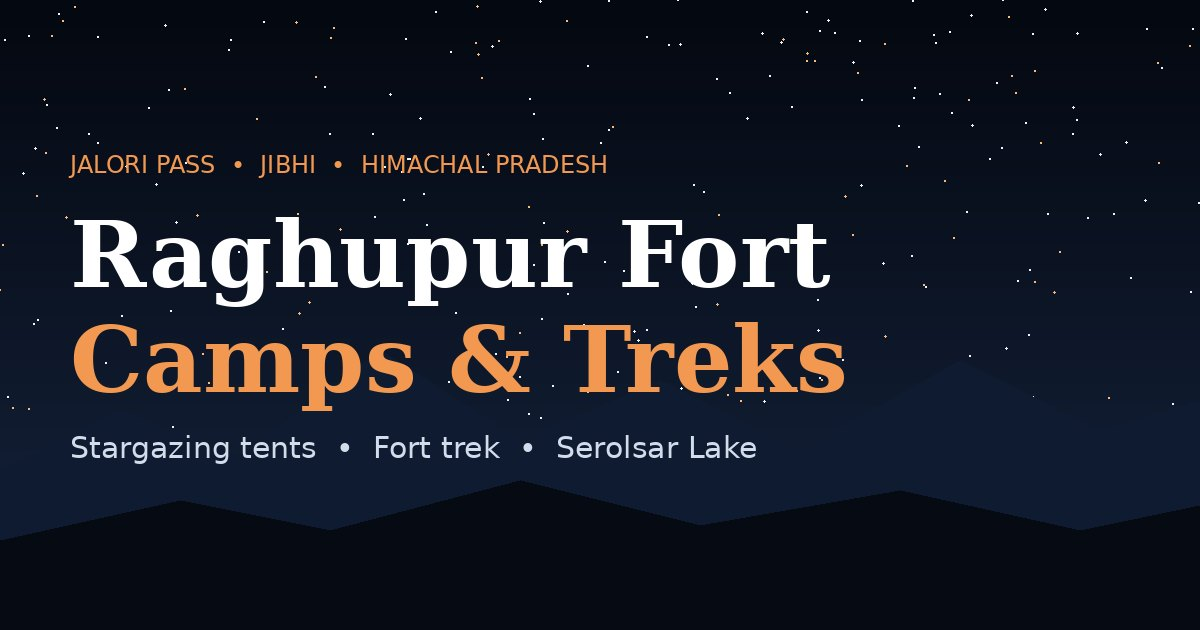
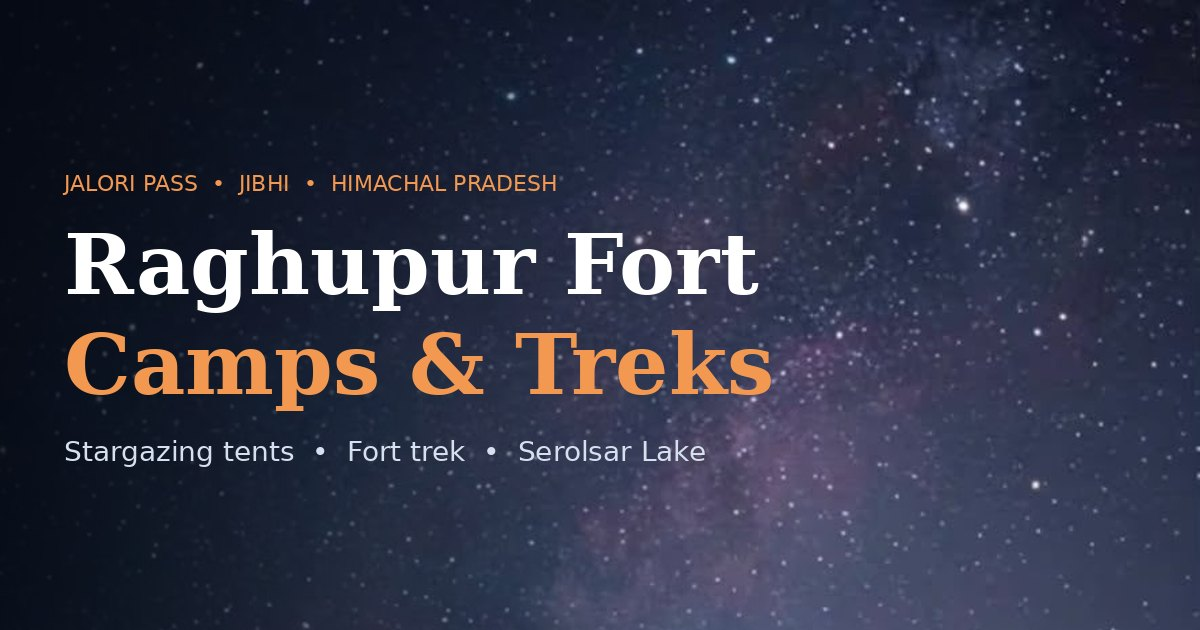
Use real camp photos, add image SEO, improve WhatsApp enquiry message
- Add 3 real photos (WebP + JPG, 480w + full size, metadata stripped)
  and replace stock placeholders; home gallery, camping stories
- New Open Graph image built from the real night-sky photo
- Image sitemap entries, image fields in JSON-LD, priceRange, hreflang,
  geo meta, descriptive alt text, contextual internal links
- WhatsApp booking message: readable date and source page; verified
  number and text on all 32 static links and all 9 booking options

Claude-Session: https://claude.ai/code/session_01BJV9k249R4Rxt7fkgJA2HJ

diff --git a/raghupur-fort-trek.html b/raghupur-fort-trek.html
@@ -7,6 +7,10 @@
 <meta name="description" content="Trek about 3 km from Jalori Pass to the ruins of Raghupur Fort. Moderate climb, around 2 hours up, 360 degree ridge views. Guides and overnight camp available.">
 <meta name="robots" content="index,follow,max-image-preview:large">
 <link rel="canonical" href="https://humsafarcommunity.github.io/raghupurcamps/raghupur-fort-trek.html">
+<link rel="alternate" hreflang="en-IN" href="https://humsafarcommunity.github.io/raghupurcamps/raghupur-fort-trek.html">
+<link rel="alternate" hreflang="x-default" href="https://humsafarcommunity.github.io/raghupurcamps/raghupur-fort-trek.html">
+<meta name="geo.region" content="IN-HP">
+<meta name="geo.placename" content="Jalori Pass, Kullu, Himachal Pradesh">
 <meta name="theme-color" content="#050a12">
 <meta property="og:type" content="website">
 <meta property="og:site_name" content="Raghupur Fort Camps">
@@ -17,7 +21,7 @@
 <meta property="og:image" content="https://humsafarcommunity.github.io/raghupurcamps/og-image.jpg">
 <meta property="og:image:width" content="1200">
 <meta property="og:image:height" content="630">
-<meta property="og:image:alt" content="Raghupur Fort Camps: starry Himalayan night above Jalori Pass">
+<meta property="og:image:alt" content="Raghupur Fort Camps: Milky Way over the camp ridge near Jalori Pass">
 <meta name="twitter:card" content="summary_large_image">
 <meta name="twitter:title" content="Raghupur Fort Trek from Jalori Pass | Route, Time &amp; Guide">
 <meta name="twitter:description" content="Trek about 3 km from Jalori Pass to the ruins of Raghupur Fort. Moderate climb, around 2 hours up, 360 degree ridge views. Guides and overnight camp available.">
@@ -29,7 +33,7 @@
 <link href="https://fonts.googleapis.com/css2?family=Playfair+Display:ital,wght@0,500;0,600;0,700;1,400&amp;family=Plus+Jakarta+Sans:wght@400;500;600;700&amp;display=swap" rel="stylesheet">
 <link rel="stylesheet" href="styles.css">
 <script type="application/ld+json">{"@context": "https://schema.org", "@type": "BreadcrumbList", "itemListElement": [{"@type": "ListItem", "position": 1, "name": "Home", "item": "https://humsafarcommunity.github.io/raghupurcamps/index.html"}, {"@type": "ListItem", "position": 2, "name": "Fort Trek", "item": "https://humsafarcommunity.github.io/raghupurcamps/raghupur-fort-trek.html"}]}</script>
-<script type="application/ld+json">{"@context": "https://schema.org", "@type": "TouristAttraction", "name": "Raghupur Fort", "description": "Ruins of a hill fort believed to have been built by the Mandi rulers, reached by a moderate trek of about 3 km from Jalori Pass in Himachal Pradesh.", "address": {"@type": "PostalAddress", "addressLocality": "Jalori Pass", "addressRegion": "Himachal Pradesh", "addressCountry": "IN"}}</script>
+<script type="application/ld+json">{"@context": "https://schema.org", "@type": "TouristAttraction", "name": "Raghupur Fort", "image": "https://humsafarcommunity.github.io/raghupurcamps/images/raghupur-fort-ridge-sunset-view.jpg", "description": "Ruins of a hill fort believed to have been built by the Mandi rulers, reached by a moderate trek of about 3 km from Jalori Pass in Himachal Pradesh.", "address": {"@type": "PostalAddress", "addressLocality": "Jalori Pass", "addressRegion": "Himachal Pradesh", "addressCountry": "IN"}}</script>
 </head>
 <body data-page="raghupur-fort-trek.html">
 <a class="skip-link" href="#main">Skip to content</a>
@@ -74,10 +78,10 @@
   <div class="content-container">
     <div class="editorial-header">
       <h2 class="editorial-title">Trek to the old fort above Jalori Pass</h2>
-      <p class="editorial-lead">Raghupur Fort (also called Raghupur Garh) is believed to have been built by the Mandi rulers as a lookout and defence post. Only ruins remain today, but the setting is the draw: stone walls on an open ridge, with views over the surrounding valleys and, on clear days, snow-capped peaks.</p>
+      <p class="editorial-lead">Raghupur Fort (also called Raghupur Garh) is believed to have been built by the Mandi rulers as a lookout and defence post. Only ruins remain today, but the setting is the draw: stone walls on an open ridge, with views over the surrounding valleys and, on clear days, snow-capped peaks. You can also <a href="raghupur-fort-camping.html">camp overnight on the ridge</a> or combine the walk with the <a href="serolsar-lake-trek.html">Serolsar Lake trek</a>.</p>
     </div>
     <div class="stats-row"><div class="stat-card"><span class="stat-num">~3 km</span><span class="stat-label">Trail distance</span><span class="stat-note">From Jalori Pass</span></div><div class="stat-card"><span class="stat-num">~2 hrs</span><span class="stat-label">Climb up</span><span class="stat-note">About 1 hr to come down</span></div><div class="stat-card"><span class="stat-num">Moderate</span><span class="stat-label">Difficulty</span><span class="stat-note">Steady, steep in places</span></div><div class="stat-card"><span class="stat-num">360&deg;</span><span class="stat-label">Ridge views</span><span class="stat-note">Best on a clear morning</span></div></div>
-    <div class="story-grid"><div class="story-content"><span class="section-tag">Heritage and trail</span><h2 class="story-heading">Walking the ridge of the old fort</h2><p>The trail starts at Jalori Pass and quickly leaves the road crowd behind, climbing through oak and rhododendron woods before opening onto grassy alpine slopes.</p><p>Near the top the dry-stone ruins appear along the ridge. Walk the remains of the walls, look out over the valleys, and imagine the sentries who once watched this route.</p><blockquote class="highlight-quote"><p>On a clear afternoon you can pick out line after line of snow peaks, with birds of prey riding the air far below.</p></blockquote></div><div class="story-media"><figure class="media-frame"><img src="https://images.unsplash.com/photo-1464822759023-fed622ff2c3b?auto=format&fit=crop&w=1000&q=75" alt="Himalayan mountain ridge under open sky" width="1000" height="1200" class="media-img" loading="lazy" decoding="async" referrerpolicy="no-referrer" onerror="this.closest('.media-frame').classList.add('img-failed')"><figcaption class="media-caption"><span>Illustrative photo of a Himalayan ridge</span><span class="badge">Ridge trail</span></figcaption></figure></div></div>
+    <div class="story-grid"><div class="story-content"><span class="section-tag">Heritage and trail</span><h2 class="story-heading">Walking the ridge of the old fort</h2><p>The trail starts at Jalori Pass and quickly leaves the road crowd behind, climbing through oak and rhododendron woods before opening onto grassy alpine slopes.</p><p>Near the top the dry-stone ruins appear along the ridge. Walk the remains of the walls, look out over the valleys, and imagine the sentries who once watched this route.</p><blockquote class="highlight-quote"><p>On a clear afternoon you can pick out line after line of snow peaks, with birds of prey riding the air far below.</p></blockquote></div><div class="story-media"><figure class="media-frame"><picture><source type="image/webp" srcset="images/raghupur-fort-ridge-sunset-view-480.webp 480w, images/raghupur-fort-ridge-sunset-view.webp 768w" sizes="(max-width: 768px) 100vw, 520px"><img src="images/raghupur-fort-ridge-sunset-view.jpg" srcset="images/raghupur-fort-ridge-sunset-view-480.jpg 480w, images/raghupur-fort-ridge-sunset-view.jpg 768w" sizes="(max-width: 768px) 100vw, 520px" alt="Traveller sitting on the grassy ridge at Raghupur Fort watching the sun set over layered Himalayan ranges" width="768" height="1024" class="media-img" loading="lazy" decoding="async" onerror="this.closest('.media-frame').classList.add('img-failed')"></picture><figcaption class="media-caption"><span>Golden hour on the ridge near Raghupur Fort</span><span class="badge">Ridge views</span></figcaption></figure></div></div>
     <div class="trail-experience">
       <div class="center-header"><span class="section-tag">The trail</span><h2 class="section-heading">From Jalori Pass to the fort</h2><p class="section-description">Start early so you reach the top before afternoon cloud rolls in.</p></div>
       <ol class="timeline-trail"><li class="trail-step"><div class="step-marker" aria-hidden="true">01</div><div class="step-card"><h3>Jalori Pass start</h3><p>Begin near the Kali Mata temple at the pass, with the trail climbing steadily into the trees.</p></div></li><li class="trail-step"><div class="step-marker" aria-hidden="true">02</div><div class="step-card"><h3>Oak and rhododendron forest</h3><p>A shaded, cool section with soft ground. Rhododendrons colour the trail in spring.</p></div></li><li class="trail-step"><div class="step-marker" aria-hidden="true">03</div><div class="step-card"><h3>Open meadow slopes</h3><p>The trees thin out and big alpine meadows appear, with wide views opening up behind you.</p></div></li><li class="trail-step"><div class="step-marker" aria-hidden="true">04</div><div class="step-card"><h3>The fort ruins</h3><p>Reach the old stone walls on the ridge, the highest point of the walk and the best view.</p></div></li></ol>

diff --git a/index.html b/index.html
@@ -7,6 +7,10 @@
 <meta name="description" content="Camp at Raghupur Fort near Jalori Pass, Himachal. Stargazing tents, Raghupur Fort trek, Serolsar Lake trek and Jibhi-Tirthan trips. Call +91 70187 36861.">
 <meta name="robots" content="index,follow,max-image-preview:large">
 <link rel="canonical" href="https://humsafarcommunity.github.io/raghupurcamps/index.html">
+<link rel="alternate" hreflang="en-IN" href="https://humsafarcommunity.github.io/raghupurcamps/index.html">
+<link rel="alternate" hreflang="x-default" href="https://humsafarcommunity.github.io/raghupurcamps/index.html">
+<meta name="geo.region" content="IN-HP">
+<meta name="geo.placename" content="Jalori Pass, Kullu, Himachal Pradesh">
 <meta name="theme-color" content="#050a12">
 <meta property="og:type" content="website">
 <meta property="og:site_name" content="Raghupur Fort Camps">
@@ -17,7 +21,7 @@
 <meta property="og:image" content="https://humsafarcommunity.github.io/raghupurcamps/og-image.jpg">
 <meta property="og:image:width" content="1200">
 <meta property="og:image:height" content="630">
-<meta property="og:image:alt" content="Raghupur Fort Camps: starry Himalayan night above Jalori Pass">
+<meta property="og:image:alt" content="Raghupur Fort Camps: Milky Way over the camp ridge near Jalori Pass">
 <meta name="twitter:card" content="summary_large_image">
 <meta name="twitter:title" content="Raghupur Fort Camping &amp; Treks | Jalori Pass, Jibhi, Serolsar">
 <meta name="twitter:description" content="Camp at Raghupur Fort near Jalori Pass, Himachal. Stargazing tents, Raghupur Fort trek, Serolsar Lake trek and Jibhi-Tirthan trips. Call +91 70187 36861.">
@@ -28,7 +32,7 @@
 <link rel="preconnect" href="https://fonts.gstatic.com" crossorigin>
 <link href="https://fonts.googleapis.com/css2?family=Playfair+Display:ital,wght@0,500;0,600;0,700;1,400&amp;family=Plus+Jakarta+Sans:wght@400;500;600;700&amp;display=swap" rel="stylesheet">
 <link rel="stylesheet" href="styles.css">
-<script type="application/ld+json">{"@context": "https://schema.org", "@type": "Campground", "name": "Raghupur Fort Camps", "url": "https://humsafarcommunity.github.io/raghupurcamps/index.html", "image": "https://humsafarcommunity.github.io/raghupurcamps/og-image.jpg", "telephone": "+917018736861", "description": "Tented camping and guided treks on the Raghupur Fort ridge near Jalori Pass, Kullu district, Himachal Pradesh.", "address": {"@type": "PostalAddress", "addressLocality": "Jalori Pass", "addressRegion": "Himachal Pradesh", "addressCountry": "IN"}, "areaServed": ["Jalori Pass", "Jibhi", "Tirthan Valley", "Serolsar Lake"]}</script>
+<script type="application/ld+json">{"@context": "https://schema.org", "@type": "Campground", "name": "Raghupur Fort Camps", "url": "https://humsafarcommunity.github.io/raghupurcamps/index.html", "image": ["https://humsafarcommunity.github.io/raghupurcamps/images/raghupur-fort-camp-tents-himalayan-view.jpg", "https://humsafarcommunity.github.io/raghupurcamps/images/raghupur-fort-ridge-sunset-view.jpg", "https://humsafarcommunity.github.io/raghupurcamps/images/raghupur-fort-camp-milky-way-night-sky.jpg", "https://humsafarcommunity.github.io/raghupurcamps/og-image.jpg"], "telephone": "+917018736861", "priceRange": "INR 1200 - 5500", "description": "Tented camping and guided treks on the Raghupur Fort ridge near Jalori Pass, Kullu district, Himachal Pradesh.", "address": {"@type": "PostalAddress", "addressLocality": "Jalori Pass", "addressRegion": "Himachal Pradesh", "addressCountry": "IN"}, "areaServed": ["Jalori Pass", "Jibhi", "Tirthan Valley", "Serolsar Lake"]}</script>
 <script type="application/ld+json">{"@context": "https://schema.org", "@type": "WebSite", "name": "Raghupur Fort Camps", "url": "https://humsafarcommunity.github.io/raghupurcamps/index.html"}</script>
 </head>
 <body data-page="home">
@@ -77,6 +81,8 @@
       <p class="editorial-lead">Raghupur Fort stands on an open ridge above Jalori Pass in Kullu district, Himachal Pradesh. We run tented camps on the ridge near the fort, with warm bedding, hot Himachali meals and a bonfire as the night sky comes out. It pairs easily with the Serolsar Lake trek, and Jibhi and Tirthan Valley are a short drive down the mountain.</p>
     </div>
     <div class="stats-row"><div class="stat-card"><span class="stat-num">~3,500 m</span><span class="stat-label">Camp altitude</span><span class="stat-note">Around 11,500 ft</span></div><div class="stat-card"><span class="stat-num">3 km</span><span class="stat-label">Trek to the fort</span><span class="stat-note">From Jalori Pass, about 2 hrs up</span></div><div class="stat-card"><span class="stat-num">12 km</span><span class="stat-label">Jalori to Jibhi</span><span class="stat-note">About a 40 minute drive</span></div><div class="stat-card"><span class="stat-num">Apr&nbsp;&ndash;&nbsp;Nov</span><span class="stat-label">Main season</span><span class="stat-note">Snow closes the road in winter</span></div></div>
+    <div class="center-header"><span class="section-tag">Life at the camp</span><h2 class="section-heading">Real photos from the ridge</h2></div>
+    <div class="gallery-grid"><figure class="media-frame gallery-item"><picture><source type="image/webp" srcset="images/raghupur-fort-camp-tents-himalayan-view-480.webp 480w, images/raghupur-fort-camp-tents-himalayan-view.webp 768w" sizes="(max-width: 768px) 100vw, 360px"><img src="images/raghupur-fort-camp-tents-himalayan-view.jpg" srcset="images/raghupur-fort-camp-tents-himalayan-view-480.jpg 480w, images/raghupur-fort-camp-tents-himalayan-view.jpg 768w" sizes="(max-width: 768px) 100vw, 360px" alt="Row of dome tents on the green ridge at Raghupur Fort camp with Himalayan peaks and clouds behind" width="768" height="1024" class="media-img" loading="lazy" decoding="async" onerror="this.closest('.media-frame').classList.add('img-failed')"></picture><figcaption class="media-caption"><span>Tents on the ridge</span></figcaption></figure><figure class="media-frame gallery-item"><picture><source type="image/webp" srcset="images/raghupur-fort-ridge-sunset-view-480.webp 480w, images/raghupur-fort-ridge-sunset-view.webp 768w" sizes="(max-width: 768px) 100vw, 360px"><img src="images/raghupur-fort-ridge-sunset-view.jpg" srcset="images/raghupur-fort-ridge-sunset-view-480.jpg 480w, images/raghupur-fort-ridge-sunset-view.jpg 768w" sizes="(max-width: 768px) 100vw, 360px" alt="Traveller sitting on the grassy ridge at Raghupur Fort watching the sun set over layered Himalayan ranges" width="768" height="1024" class="media-img" loading="lazy" decoding="async" onerror="this.closest('.media-frame').classList.add('img-failed')"></picture><figcaption class="media-caption"><span>Golden hour at Raghupur</span></figcaption></figure><figure class="media-frame gallery-item"><picture><source type="image/webp" srcset="images/raghupur-fort-camp-milky-way-night-sky-480.webp 480w, images/raghupur-fort-camp-milky-way-night-sky.webp 886w" sizes="(max-width: 768px) 100vw, 360px"><img src="images/raghupur-fort-camp-milky-way-night-sky.jpg" srcset="images/raghupur-fort-camp-milky-way-night-sky-480.jpg 480w, images/raghupur-fort-camp-milky-way-night-sky.jpg 886w" sizes="(max-width: 768px) 100vw, 360px" alt="Milky Way and thousands of stars over a pine-covered ridge at the Raghupur Fort camp" width="886" height="1280" class="media-img" loading="lazy" decoding="async" onerror="this.closest('.media-frame').classList.add('img-failed')"></picture><figcaption class="media-caption"><span>Milky Way above the camp</span></figcaption></figure></div>
     <div class="center-header"><span class="section-tag">Choose your experience</span><h2 class="section-heading">Four ways to spend your days in Seraj</h2></div>
     <div class="exp-grid"><a class="exp-card" href="raghupur-fort-camping.html"><span class="place-tag">Stay</span><h3>Camping at Raghupur Fort</h3><p>Alpine tents, campfire evenings and a sky full of stars on the ridge.</p><span class="exp-more">Explore <span aria-hidden="true">&rarr;</span></span></a><a class="exp-card" href="raghupur-fort-trek.html"><span class="place-tag">Trek</span><h3>Raghupur Fort trek</h3><p>About 3 km from Jalori Pass through oak and rhododendron forest to the old fort ruins.</p><span class="exp-more">Explore <span aria-hidden="true">&rarr;</span></span></a><a class="exp-card" href="serolsar-lake-trek.html"><span class="place-tag">Trek</span><h3>Serolsar Lake trek</h3><p>An easy 5 km forest walk to a sacred lake, as a day trek or paired with a camp night.</p><span class="exp-more">Explore <span aria-hidden="true">&rarr;</span></span></a><a class="exp-card" href="jibhi-tirthan-valley.html"><span class="place-tag">Explore</span><h3>Jibhi &amp; Tirthan Valley</h3><p>Wooden villages, waterfalls, Chehni Kothi and the Great Himalayan National Park.</p><span class="exp-more">Explore <span aria-hidden="true">&rarr;</span></span></a></div>
     <div class="center-header"><span class="section-tag">Why stay with us</span><h2 class="section-heading">A camp built around the mountain</h2></div>

diff --git a/raghupur-fort-camping.html b/raghupur-fort-camping.html
@@ -7,6 +7,10 @@
 <meta name="description" content="Sleep in alpine tents on the Raghupur Fort ridge near Jalori Pass. Campfire, Himachali meals, sunrise views and stargazing. Standard, luxury and private tents.">
 <meta name="robots" content="index,follow,max-image-preview:large">
 <link rel="canonical" href="https://humsafarcommunity.github.io/raghupurcamps/raghupur-fort-camping.html">
+<link rel="alternate" hreflang="en-IN" href="https://humsafarcommunity.github.io/raghupurcamps/raghupur-fort-camping.html">
+<link rel="alternate" hreflang="x-default" href="https://humsafarcommunity.github.io/raghupurcamps/raghupur-fort-camping.html">
+<meta name="geo.region" content="IN-HP">
+<meta name="geo.placename" content="Jalori Pass, Kullu, Himachal Pradesh">
 <meta name="theme-color" content="#050a12">
 <meta property="og:type" content="website">
 <meta property="og:site_name" content="Raghupur Fort Camps">
@@ -17,7 +21,7 @@
 <meta property="og:image" content="https://humsafarcommunity.github.io/raghupurcamps/og-image.jpg">
 <meta property="og:image:width" content="1200">
 <meta property="og:image:height" content="630">
-<meta property="og:image:alt" content="Raghupur Fort Camps: starry Himalayan night above Jalori Pass">
+<meta property="og:image:alt" content="Raghupur Fort Camps: Milky Way over the camp ridge near Jalori Pass">
 <meta name="twitter:card" content="summary_large_image">
 <meta name="twitter:title" content="Raghupur Fort Camping near Jalori Pass | Stargazing Tents">
 <meta name="twitter:description" content="Sleep in alpine tents on the Raghupur Fort ridge near Jalori Pass. Campfire, Himachali meals, sunrise views and stargazing. Standard, luxury and private tents.">
@@ -28,7 +32,7 @@
 <link rel="preconnect" href="https://fonts.gstatic.com" crossorigin>
 <link href="https://fonts.googleapis.com/css2?family=Playfair+Display:ital,wght@0,500;0,600;0,700;1,400&amp;family=Plus+Jakarta+Sans:wght@400;500;600;700&amp;display=swap" rel="stylesheet">
 <link rel="stylesheet" href="styles.css">
-<script type="application/ld+json">{"@context": "https://schema.org", "@type": "Campground", "name": "Raghupur Fort Camps", "url": "https://humsafarcommunity.github.io/raghupurcamps/index.html", "image": "https://humsafarcommunity.github.io/raghupurcamps/og-image.jpg", "telephone": "+917018736861", "description": "Tented camping and guided treks on the Raghupur Fort ridge near Jalori Pass, Kullu district, Himachal Pradesh.", "address": {"@type": "PostalAddress", "addressLocality": "Jalori Pass", "addressRegion": "Himachal Pradesh", "addressCountry": "IN"}, "areaServed": ["Jalori Pass", "Jibhi", "Tirthan Valley", "Serolsar Lake"]}</script>
+<script type="application/ld+json">{"@context": "https://schema.org", "@type": "Campground", "name": "Raghupur Fort Camps", "url": "https://humsafarcommunity.github.io/raghupurcamps/index.html", "image": ["https://humsafarcommunity.github.io/raghupurcamps/images/raghupur-fort-camp-tents-himalayan-view.jpg", "https://humsafarcommunity.github.io/raghupurcamps/images/raghupur-fort-ridge-sunset-view.jpg", "https://humsafarcommunity.github.io/raghupurcamps/images/raghupur-fort-camp-milky-way-night-sky.jpg", "https://humsafarcommunity.github.io/raghupurcamps/og-image.jpg"], "telephone": "+917018736861", "priceRange": "INR 1200 - 5500", "description": "Tented camping and guided treks on the Raghupur Fort ridge near Jalori Pass, Kullu district, Himachal Pradesh.", "address": {"@type": "PostalAddress", "addressLocality": "Jalori Pass", "addressRegion": "Himachal Pradesh", "addressCountry": "IN"}, "areaServed": ["Jalori Pass", "Jibhi", "Tirthan Valley", "Serolsar Lake"]}</script>
 <script type="application/ld+json">{"@context": "https://schema.org", "@type": "BreadcrumbList", "itemListElement": [{"@type": "ListItem", "position": 1, "name": "Home", "item": "https://humsafarcommunity.github.io/raghupurcamps/index.html"}, {"@type": "ListItem", "position": 2, "name": "Camping", "item": "https://humsafarcommunity.github.io/raghupurcamps/raghupur-fort-camping.html"}]}</script>
 </head>
 <body data-page="raghupur-fort-camping.html">
@@ -74,8 +78,10 @@
   <div class="content-container">
     <div class="editorial-header">
       <h2 class="editorial-title">High-altitude camping at Raghupur Fort</h2>
-      <p class="editorial-lead">Our camp sits on an open ridge at roughly 3,500 m, far from town lights. As dusk settles the snow ranges catch the last of the sun, and on a clear night the Milky Way stretches overhead. Stay one night after the fort trek or add it to a Serolsar Lake day.</p>
+      <p class="editorial-lead">Our camp sits on an open ridge at roughly 3,500 m, far from town lights. As dusk settles the snow ranges catch the last of the sun, and on a clear night the Milky Way stretches overhead. Stay one night after the <a href="raghupur-fort-trek.html">Raghupur Fort trek</a> or add it to a <a href="serolsar-lake-trek.html">Serolsar Lake day trek</a>.</p>
     </div>
+    <div class="story-grid"><div class="story-content"><span class="section-tag">The camp</span><h2 class="story-heading">Tents on the ridge, peaks all around</h2><p>Our dome tents sit in a row along the grassy slope below the pines, with the Himalayan ranges filling the horizon. Days are bright and open, and mornings often start clear before cloud rolls in.</p><p>Everything is close at hand: your tent, the kitchen, the bonfire circle and the viewpoints along the ridge.</p><blockquote class="highlight-quote"><p>Pick your pitch, unzip the door and the view is already there.</p></blockquote></div><div class="story-media"><figure class="media-frame"><picture><source type="image/webp" srcset="images/raghupur-fort-camp-tents-himalayan-view-480.webp 480w, images/raghupur-fort-camp-tents-himalayan-view.webp 768w" sizes="(max-width: 768px) 100vw, 520px"><img src="images/raghupur-fort-camp-tents-himalayan-view.jpg" srcset="images/raghupur-fort-camp-tents-himalayan-view-480.jpg 480w, images/raghupur-fort-camp-tents-himalayan-view.jpg 768w" sizes="(max-width: 768px) 100vw, 520px" alt="Row of dome tents on the green ridge at Raghupur Fort camp with Himalayan peaks and clouds behind" width="768" height="1024" class="media-img" loading="lazy" decoding="async" onerror="this.closest('.media-frame').classList.add('img-failed')"></picture><figcaption class="media-caption"><span>Dome tents on the Raghupur Fort ridge</span><span class="badge">The camp</span></figcaption></figure></div></div>
+    <div class="story-grid"><div class="story-content"><span class="section-tag">After dark</span><h2 class="story-heading">A sky full of stars</h2><p>Far from town lights, the night sky over the ridge fills with stars, and on clear, moonless nights the Milky Way stretches across it.</p><p>Bring a warm layer, switch off your torch and give your eyes ten minutes to adjust. Our private stargazing pitch is set a little away from the main camp for the darkest sky.</p></div><div class="story-media"><figure class="media-frame"><picture><source type="image/webp" srcset="images/raghupur-fort-camp-milky-way-night-sky-480.webp 480w, images/raghupur-fort-camp-milky-way-night-sky.webp 886w" sizes="(max-width: 768px) 100vw, 520px"><img src="images/raghupur-fort-camp-milky-way-night-sky.jpg" srcset="images/raghupur-fort-camp-milky-way-night-sky-480.jpg 480w, images/raghupur-fort-camp-milky-way-night-sky.jpg 886w" sizes="(max-width: 768px) 100vw, 520px" alt="Milky Way and thousands of stars over a pine-covered ridge at the Raghupur Fort camp" width="886" height="1280" class="media-img" loading="lazy" decoding="async" onerror="this.closest('.media-frame').classList.add('img-failed')"></picture><figcaption class="media-caption"><span>The Milky Way above the camp ridge</span><span class="badge">Stargazing</span></figcaption></figure></div></div>
     <div class="camps-features-grid">
       <div class="feature-card"><div class="feature-icon" aria-hidden="true">⛺</div><h3>Weatherproof tents</h3><p>Double-layer dome tents with insulated foam mats, fleece blankets and warm sleeping bags.</p></div>
       <div class="feature-card"><div class="feature-icon" aria-hidden="true">🍲</div><h3>Hot Himachali meals</h3><p>Fresh dinner with dal, local greens, rajma and chapatis, plus morning chai and a hearty breakfast.</p></div>

diff --git a/serolsar-lake-trek.html b/serolsar-lake-trek.html
@@ -7,6 +7,10 @@
 <meta name="description" content="Walk 5 km from Jalori Pass to sacred Serolsar Lake. Easy forest trek with guide, Budhi Nagin temple and an optional night at Raghupur Fort Camps.">
 <meta name="robots" content="index,follow,max-image-preview:large">
 <link rel="canonical" href="https://humsafarcommunity.github.io/raghupurcamps/serolsar-lake-trek.html">
+<link rel="alternate" hreflang="en-IN" href="https://humsafarcommunity.github.io/raghupurcamps/serolsar-lake-trek.html">
+<link rel="alternate" hreflang="x-default" href="https://humsafarcommunity.github.io/raghupurcamps/serolsar-lake-trek.html">
+<meta name="geo.region" content="IN-HP">
+<meta name="geo.placename" content="Jalori Pass, Kullu, Himachal Pradesh">
 <meta name="theme-color" content="#050a12">
 <meta property="og:type" content="website">
 <meta property="og:site_name" content="Raghupur Fort Camps">
@@ -17,7 +21,7 @@
 <meta property="og:image" content="https://humsafarcommunity.github.io/raghupurcamps/og-image.jpg">
 <meta property="og:image:width" content="1200">
 <meta property="og:image:height" content="630">
-<meta property="og:image:alt" content="Raghupur Fort Camps: starry Himalayan night above Jalori Pass">
+<meta property="og:image:alt" content="Raghupur Fort Camps: Milky Way over the camp ridge near Jalori Pass">
 <meta name="twitter:card" content="summary_large_image">
 <meta name="twitter:title" content="Serolsar Lake Trek from Jalori Pass | Guided Day Trek &amp; Camp">
 <meta name="twitter:description" content="Walk 5 km from Jalori Pass to sacred Serolsar Lake. Easy forest trek with guide, Budhi Nagin temple and an optional night at Raghupur Fort Camps.">
@@ -74,10 +78,10 @@
   <div class="content-container">
     <div class="editorial-header">
       <h2 class="editorial-title">Serolsar Lake: a quiet forest lake near Jalori Pass</h2>
-      <p class="editorial-lead">Serolsar Lake (also written Seroalsar or Serolsar Tal) is a small, calm lake set deep in forest just below Jalori Pass. The water mirrors the sky, shifting between green, blue and grey. A small temple to Budhi Nagin stands on the bank, and locals treat the lake as sacred.</p>
+      <p class="editorial-lead">Serolsar Lake (also written Seroalsar or Serolsar Tal) is a small, calm lake set deep in forest just below Jalori Pass. The water mirrors the sky, shifting between green, blue and grey. A small temple to Budhi Nagin stands on the bank, and locals treat the lake as sacred. The trek starts at Jalori Pass, about 12 km above <a href="jibhi-tirthan-valley.html">Jibhi</a>, and you can end the day with a night at <a href="raghupur-fort-camping.html">Raghupur Fort camp</a>.</p>
     </div>
     <div class="stats-row"><div class="stat-card"><span class="stat-num">5 km</span><span class="stat-label">Trail distance</span><span class="stat-note">One way, gentle walk</span></div><div class="stat-card"><span class="stat-num">~10,170 ft</span><span class="stat-label">Lake altitude</span><span class="stat-note">About 3,100 m</span></div><div class="stat-card"><span class="stat-num">~2 hrs</span><span class="stat-label">Trek time</span><span class="stat-note">Easy, mostly forest path</span></div><div class="stat-card"><span class="stat-num">Apr&nbsp;&ndash;&nbsp;Nov</span><span class="stat-label">Best season</span><span class="stat-note">Snow trek in winter</span></div></div>
-    <div class="story-grid"><div class="story-content"><span class="section-tag">The sacred legend</span><h2 class="story-heading">The legend of Mata Budhi Nagin</h2><p>Local tradition holds that Serolsar is the home of Budhi Nagin, revered across the Seraj region as the mother of the Nag (serpent) deities. Villagers from Kullu and Mandi come to pay their respects, and offerings of ghee are made at her temple.</p><p>Visitors often remark on how clean the lake stays. A popular story credits a small bird, known locally as the Abhi, with picking fallen leaves from the water to keep the goddess&rsquo;s lake clear.</p><blockquote class="highlight-quote"><p>Keep your shoes away from the water and your voice low. The quiet here is part of the place.</p></blockquote></div><div class="story-media"><figure class="media-frame"><img src="https://images.unsplash.com/photo-1506744038136-46273834b3fb?auto=format&fit=crop&w=1000&q=75" alt="Calm alpine lake surrounded by mountains" width="1000" height="1200" class="media-img" loading="lazy" decoding="async" referrerpolicy="no-referrer" onerror="this.closest('.media-frame').classList.add('img-failed')"><figcaption class="media-caption"><span>Illustrative photo of an alpine lake</span><span class="badge">Sacred lake</span></figcaption></figure></div></div>
+    <div class="story-grid"><div class="story-content"><span class="section-tag">The sacred legend</span><h2 class="story-heading">The legend of Mata Budhi Nagin</h2><p>Local tradition holds that Serolsar is the home of Budhi Nagin, revered across the Seraj region as the mother of the Nag (serpent) deities. Villagers from Kullu and Mandi come to pay their respects, and offerings of ghee are made at her temple.</p><p>Visitors often remark on how clean the lake stays. A popular story credits a small bird, known locally as the Abhi, with picking fallen leaves from the water to keep the goddess&rsquo;s lake clear.</p><blockquote class="highlight-quote"><p>Keep your shoes away from the water and your voice low. The quiet here is part of the place.</p></blockquote></div><div class="story-media"><figure class="media-frame"><picture><source type="image/webp" srcset="images/raghupur-fort-camp-tents-himalayan-view-480.webp 480w, images/raghupur-fort-camp-tents-himalayan-view.webp 768w" sizes="(max-width: 768px) 100vw, 520px"><img src="images/raghupur-fort-camp-tents-himalayan-view.jpg" srcset="images/raghupur-fort-camp-tents-himalayan-view-480.jpg 480w, images/raghupur-fort-camp-tents-himalayan-view.jpg 768w" sizes="(max-width: 768px) 100vw, 520px" alt="Row of dome tents on the green ridge at Raghupur Fort camp with Himalayan peaks and clouds behind" width="768" height="1024" class="media-img" loading="lazy" decoding="async" onerror="this.closest('.media-frame').classList.add('img-failed')"></picture><figcaption class="media-caption"><span>Your base on the ridge after the lake trek</span><span class="badge">Overnight camp</span></figcaption></figure></div></div>
     <div class="trail-experience">
       <div class="center-header"><span class="section-tag">The trail journey</span><h2 class="section-heading">From Jalori Pass into the forest</h2><p class="section-description">A family-friendly walk that moves from open ridge into oak and rhododendron woods.</p></div>
       <ol class="timeline-trail"><li class="trail-step"><div class="step-marker" aria-hidden="true">01</div><div class="step-card"><h3>Jalori Pass trailhead</h3><p>Start near the Kali Mata temple at the pass, with views across the Kullu and Shimla sides of the range.</p></div></li><li class="trail-step"><div class="step-marker" aria-hidden="true">02</div><div class="step-card"><h3>Oak and rhododendron woods</h3><p>A shaded trail carpeted with pine needles and lichen. In spring the rhododendrons bloom along the way.</p></div></li><li class="trail-step"><div class="step-marker" aria-hidden="true">03</div><div class="step-card"><h3>Forest clearings</h3><p>Open patches along the route make good rest stops, with views down into the forested gorges.</p></div></li><li class="trail-step"><div class="step-marker" aria-hidden="true">04</div><div class="step-card"><h3>Lake and temple</h3><p>The path drops into the forest basin where the lake lies still beside the Budhi Nagin temple and prayer flags.</p></div></li></ol>

diff --git a/jibhi-tirthan-valley.html b/jibhi-tirthan-valley.html
@@ -7,6 +7,10 @@
 <meta name="description" content="Plan Jibhi and Tirthan Valley around your Jalori trip: Chehni Kothi, Jibhi and Chhoie waterfalls, Great Himalayan National Park and stays near Raghupur Fort.">
 <meta name="robots" content="index,follow,max-image-preview:large">
 <link rel="canonical" href="https://humsafarcommunity.github.io/raghupurcamps/jibhi-tirthan-valley.html">
+<link rel="alternate" hreflang="en-IN" href="https://humsafarcommunity.github.io/raghupurcamps/jibhi-tirthan-valley.html">
+<link rel="alternate" hreflang="x-default" href="https://humsafarcommunity.github.io/raghupurcamps/jibhi-tirthan-valley.html">
+<meta name="geo.region" content="IN-HP">
+<meta name="geo.placename" content="Jalori Pass, Kullu, Himachal Pradesh">
 <meta name="theme-color" content="#050a12">
 <meta property="og:type" content="website">
 <meta property="og:site_name" content="Raghupur Fort Camps">
@@ -17,7 +21,7 @@
 <meta property="og:image" content="https://humsafarcommunity.github.io/raghupurcamps/og-image.jpg">
 <meta property="og:image:width" content="1200">
 <meta property="og:image:height" content="630">
-<meta property="og:image:alt" content="Raghupur Fort Camps: starry Himalayan night above Jalori Pass">
+<meta property="og:image:alt" content="Raghupur Fort Camps: Milky Way over the camp ridge near Jalori Pass">
 <meta name="twitter:card" content="summary_large_image">
 <meta name="twitter:title" content="Jibhi &amp; Tirthan Valley Guide | Chehni Kothi, Waterfalls, GHNP">
 <meta name="twitter:description" content="Plan Jibhi and Tirthan Valley around your Jalori trip: Chehni Kothi, Jibhi and Chhoie waterfalls, Great Himalayan National Park and stays near Raghupur Fort.">
@@ -73,7 +77,7 @@
   <div class="content-container">
     <div class="editorial-header">
       <h2 class="editorial-title">The peaceful heart of Himachal</h2>
-      <p class="editorial-lead">Jibhi lies about 12 km below Jalori Pass, a small village of pine-scented air, streams and easy mountain living. Further on, Tirthan Valley leads to the Great Himalayan National Park, a UNESCO World Heritage Site. It is the natural base for a few relaxed days around a trek or a camp night.</p>
+      <p class="editorial-lead">Jibhi lies about 12 km below Jalori Pass, a small village of pine-scented air, streams and easy mountain living. Further on, Tirthan Valley leads to the Great Himalayan National Park, a UNESCO World Heritage Site. It is the natural base for a few relaxed days around a trek or a camp night. Ready to go up? See the <a href="raghupur-fort-camping.html">Raghupur Fort camp</a> and the <a href="serolsar-lake-trek.html">Serolsar Lake trek</a>.</p>
     </div>
     <div class="valley-places-grid">
       <article class="place-card"><div class="place-top" aria-hidden="true">🏯</div><div class="place-body"><span class="place-tag">Heritage</span><h3>Chehni Kothi</h3><p>A towering Kath-Kuni structure in Chehni village near Banjar, about 45 m tall and believed to be around 350 years old. It is built from alternating layers of stone and timber, a traditional technique suited to mountain earthquakes.</p></div></article>

diff --git a/plan-your-trip.html b/plan-your-trip.html
@@ -7,6 +7,10 @@
 <meta name="description" content="How to reach Jalori Pass and Raghupur Fort from Delhi or Chandigarh, best season, road closures, packing list and FAQs for camping and trekking in Seraj.">
 <meta name="robots" content="index,follow,max-image-preview:large">
 <link rel="canonical" href="https://humsafarcommunity.github.io/raghupurcamps/plan-your-trip.html">
+<link rel="alternate" hreflang="en-IN" href="https://humsafarcommunity.github.io/raghupurcamps/plan-your-trip.html">
+<link rel="alternate" hreflang="x-default" href="https://humsafarcommunity.github.io/raghupurcamps/plan-your-trip.html">
+<meta name="geo.region" content="IN-HP">
+<meta name="geo.placename" content="Jalori Pass, Kullu, Himachal Pradesh">
 <meta name="theme-color" content="#050a12">
 <meta property="og:type" content="website">
 <meta property="og:site_name" content="Raghupur Fort Camps">
@@ -17,7 +21,7 @@
 <meta property="og:image" content="https://humsafarcommunity.github.io/raghupurcamps/og-image.jpg">
 <meta property="og:image:width" content="1200">
 <meta property="og:image:height" content="630">
-<meta property="og:image:alt" content="Raghupur Fort Camps: starry Himalayan night above Jalori Pass">
+<meta property="og:image:alt" content="Raghupur Fort Camps: Milky Way over the camp ridge near Jalori Pass">
 <meta name="twitter:card" content="summary_large_image">
 <meta name="twitter:title" content="Plan Your Trip: How to Reach Jalori Pass &amp; Raghupur Fort">
 <meta name="twitter:description" content="How to reach Jalori Pass and Raghupur Fort from Delhi or Chandigarh, best season, road closures, packing list and FAQs for camping and trekking in Seraj.">

diff --git a/404.html b/404.html
@@ -7,6 +7,10 @@
 <meta name="description" content="The page you were looking for could not be found.">
 <meta name="robots" content="noindex,follow">
 <link rel="canonical" href="https://humsafarcommunity.github.io/raghupurcamps/404.html">
+<link rel="alternate" hreflang="en-IN" href="https://humsafarcommunity.github.io/raghupurcamps/404.html">
+<link rel="alternate" hreflang="x-default" href="https://humsafarcommunity.github.io/raghupurcamps/404.html">
+<meta name="geo.region" content="IN-HP">
+<meta name="geo.placename" content="Jalori Pass, Kullu, Himachal Pradesh">
 <meta name="theme-color" content="#050a12">
 <meta property="og:type" content="website">
 <meta property="og:site_name" content="Raghupur Fort Camps">
@@ -17,7 +21,7 @@
 <meta property="og:image" content="https://humsafarcommunity.github.io/raghupurcamps/og-image.jpg">
 <meta property="og:image:width" content="1200">
 <meta property="og:image:height" content="630">
-<meta property="og:image:alt" content="Raghupur Fort Camps: starry Himalayan night above Jalori Pass">
+<meta property="og:image:alt" content="Raghupur Fort Camps: Milky Way over the camp ridge near Jalori Pass">
 <meta name="twitter:card" content="summary_large_image">
 <meta name="twitter:title" content="Page not found | Raghupur Fort Camps">
 <meta name="twitter:description" content="The page you were looking for could not be found.">

diff --git a/app.js b/app.js
@@ -81,6 +81,15 @@
   /* ---------- Booking dialog ---------- */
   function pad(n) { return String(n).padStart(2, '0'); }
 
+  var MONTHS = ['Jan', 'Feb', 'Mar', 'Apr', 'May', 'Jun', 'Jul', 'Aug', 'Sep', 'Oct', 'Nov', 'Dec'];
+
+  /* '2026-12-14' -> '14 Dec 2026' (falls back to the raw value) */
+  function prettyDate(iso) {
+    var m = /^(\d{4})-(\d{2})-(\d{2})$/.exec(iso);
+    if (!m) return iso;
+    return parseInt(m[3], 10) + ' ' + MONTHS[parseInt(m[2], 10) - 1] + ' ' + m[1];
+  }
+
   function tomorrowISO() {
     var d = new Date();
     d.setDate(d.getDate() + 1);
@@ -140,12 +149,13 @@
         '*Experience:* ' + (PACKAGES[f.get('package')] || f.get('package')),
         '*Name:* ' + String(f.get('name')).trim(),
         '*Phone:* ' + String(f.get('phone')).trim(),
-        '*Travel date:* ' + f.get('date'),
+        '*Travel date:* ' + prettyDate(String(f.get('date'))),
         '*Guests:* ' + f.get('guests')
       ];
       var notes = String(f.get('notes') || '').trim();
       if (notes) lines.push('*Notes:* ' + notes);
       lines.push('', 'Please confirm availability and share the details. Thank you!');
+      lines.push('(Sent from: ' + document.title + ')');
 
       var url = 'https://wa.me/' + WHATSAPP_NUMBER + '?text=' + encodeURIComponent(lines.join('\n'));
       closeDialog();

diff --git a/styles.css b/styles.css
@@ -1852,3 +1852,27 @@ body.no-scroll { overflow: hidden; }
     scroll-behavior: auto !important;
   }
 }
+
+/* V3: real photos, gallery, in-text links */
+.editorial-lead a,
+.story-content a,
+.faq-answer a {
+  color: var(--amber-ink);
+  text-decoration: underline;
+  text-underline-offset: 3px;
+  font-weight: 500;
+}
+
+.gallery-grid {
+  display: grid;
+  grid-template-columns: repeat(3, 1fr);
+  gap: 1.5rem;
+  margin-bottom: 5rem;
+}
+
+.gallery-item .media-img { height: 440px; }
+
+@media (max-width: 768px) {
+  .gallery-grid { grid-template-columns: 1fr; margin-bottom: 3.5rem; }
+  .gallery-item .media-img { height: 360px; }
+}

diff --git a/README.md b/README.md
@@ -24,7 +24,7 @@ Each page has its own title, description, canonical URL, social preview tags and
 
 1. **Domain.** All canonical URLs, `og:url`, the sitemap and `robots.txt` use `https://humsafarcommunity.github.io/raghupurcamps`. If you connect a custom domain, find and replace that address in every `.html` file, `sitemap.xml` and `robots.txt`.
 2. **Prices and package contents.** Prices (Rs 1,200 to 5,500) and inclusions come from the original site. Confirm them, and the tent and meal details, against what you actually offer.
-3. **Photos.** The two photos on the Fort Trek and Serolsar pages are placeholder stock images. Replace them with your own photos (add the files to the repo and change the `src`). Real photos of the camp will help both bookings and rankings.
+3. **Photos.** The site now uses your real camp photos (in `images/`). For the sharpest result, send originals as a WhatsApp "Document" (not "Photo"), because WhatsApp compresses photos. To add or swap a photo, put it in `images/` and update the `src` in the page.
 4. **Contact number.** `+91 70187 36861` is used for calls and WhatsApp everywhere (search for `7018736861` to change it).
 5. **Google Business Profile / Maps.** Add a pin for the camp and link it from the footer once it exists. Adding exact coordinates to the structured data on the home page will also help.
 
